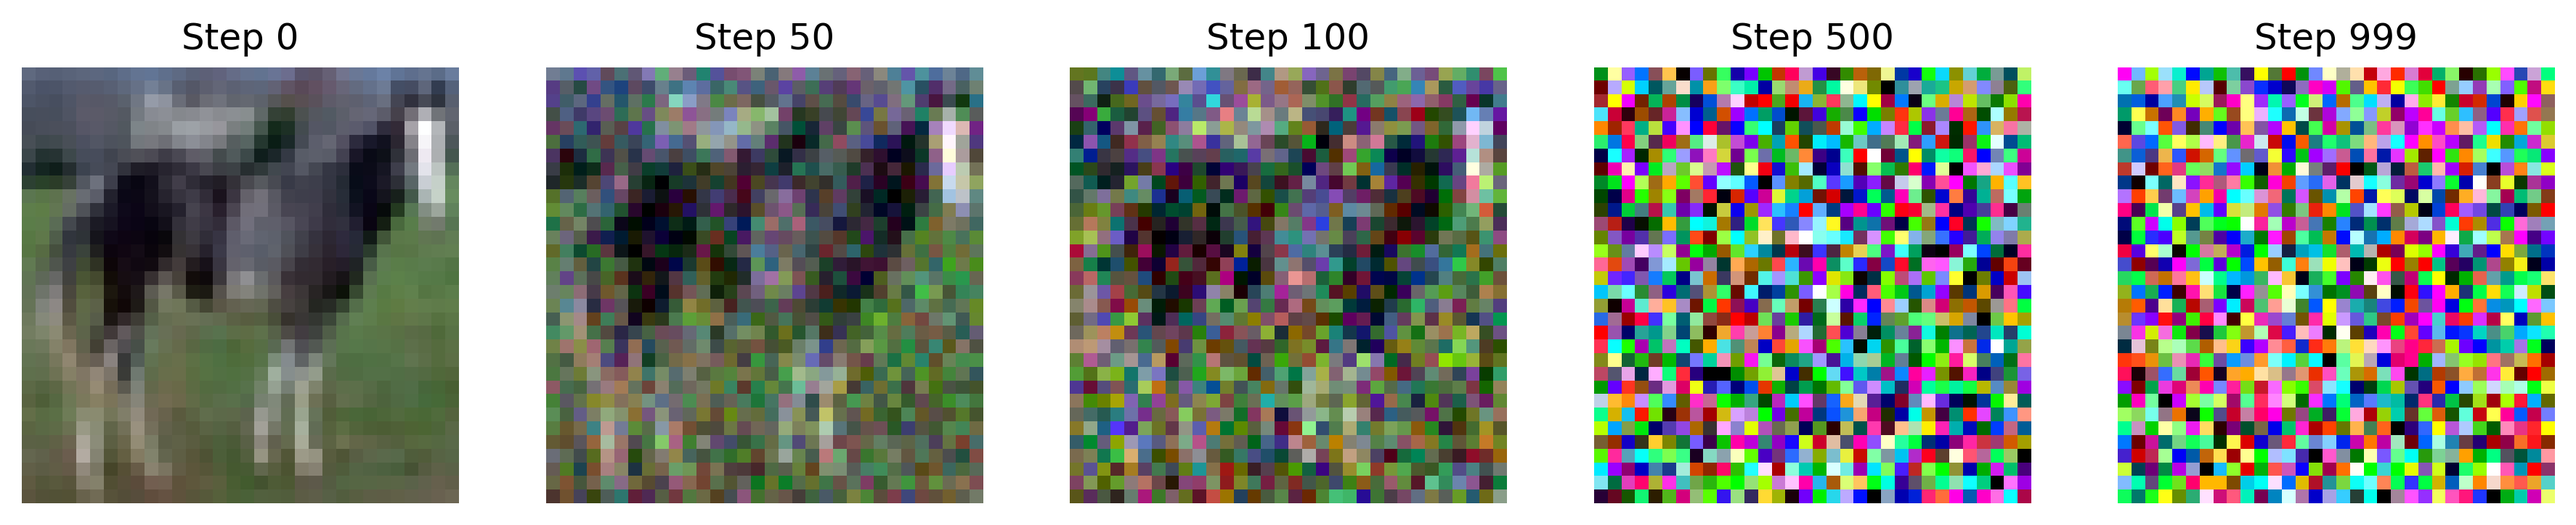
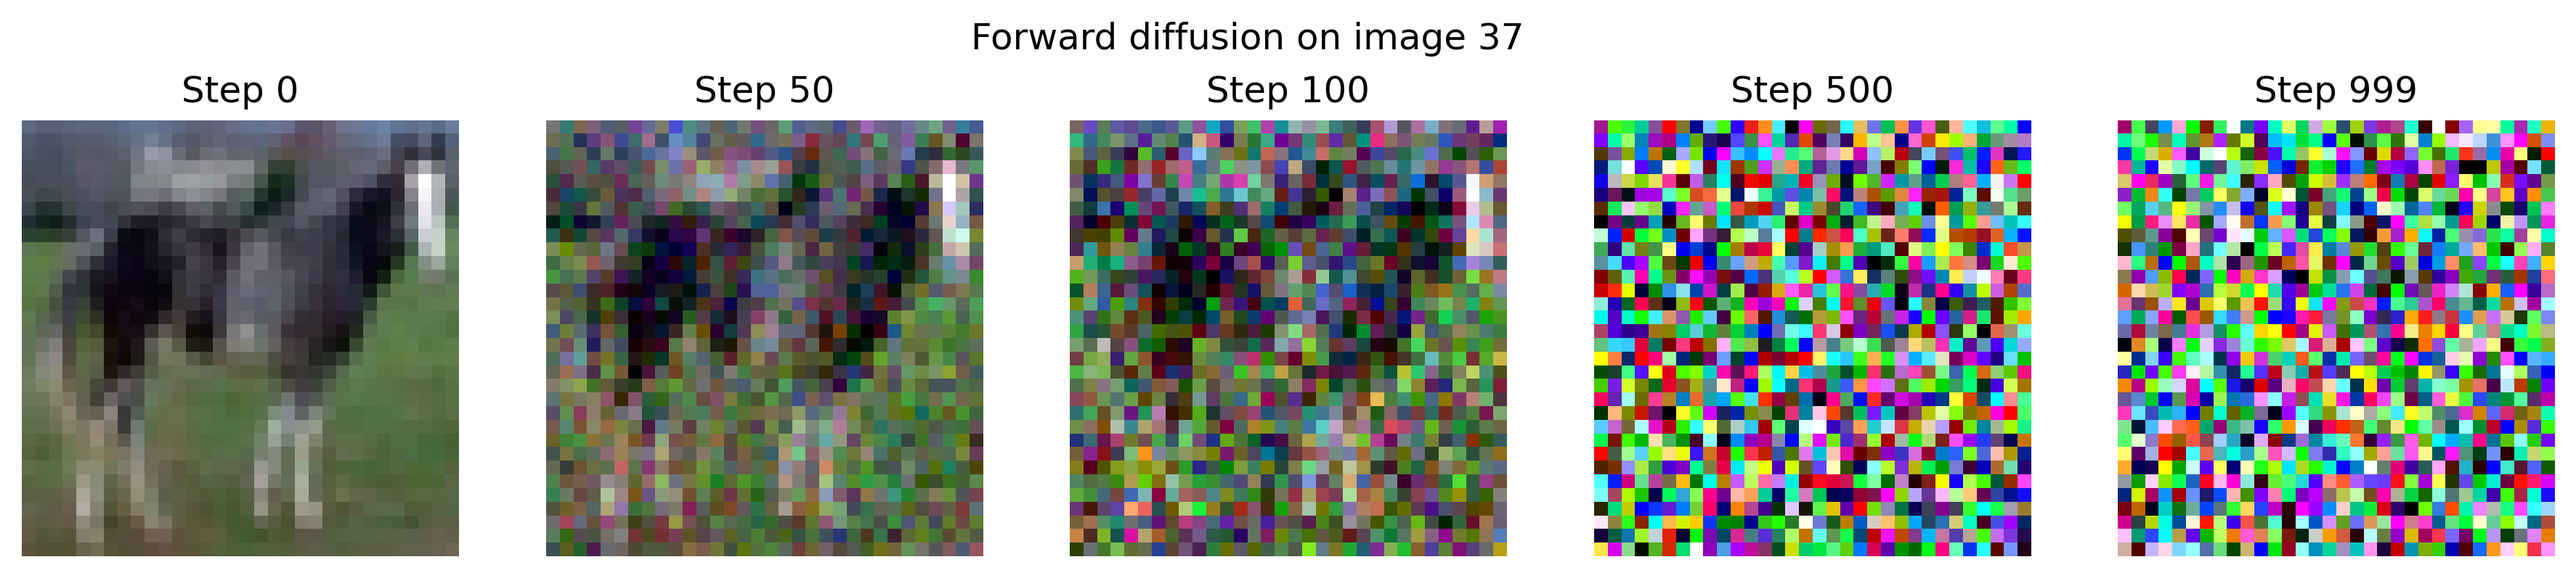
image title

diff --git a/diff_1.py b/diff_1.py
@@ -42,7 +42,8 @@ transform = transforms.Compose([
 ])
 
 dataset = torchvision.datasets.CIFAR10(root="data/",train=True,download=False,transform=transform)
-image, label = dataset[37]
+image_no = 37
+image, label = dataset[image_no]
 x_0 = image.unsqueeze(0)
 print(f"Returning the batch dimension {x_0.shape}")
 
@@ -74,8 +75,10 @@ for i, img, in enumerate(noisy_images):
     axes[i].imshow(img)
     axes[i].set_title(f"Step {timesteps[i]}")
     axes[i].axis('off')
+    fig.suptitle(f'Forward diffusion on image {image_no}')
 
 plt.savefig('forward_diff_cifar10.png',bbox_inches='tight',dpi=300)
+print('Image saved')
 
 
 
